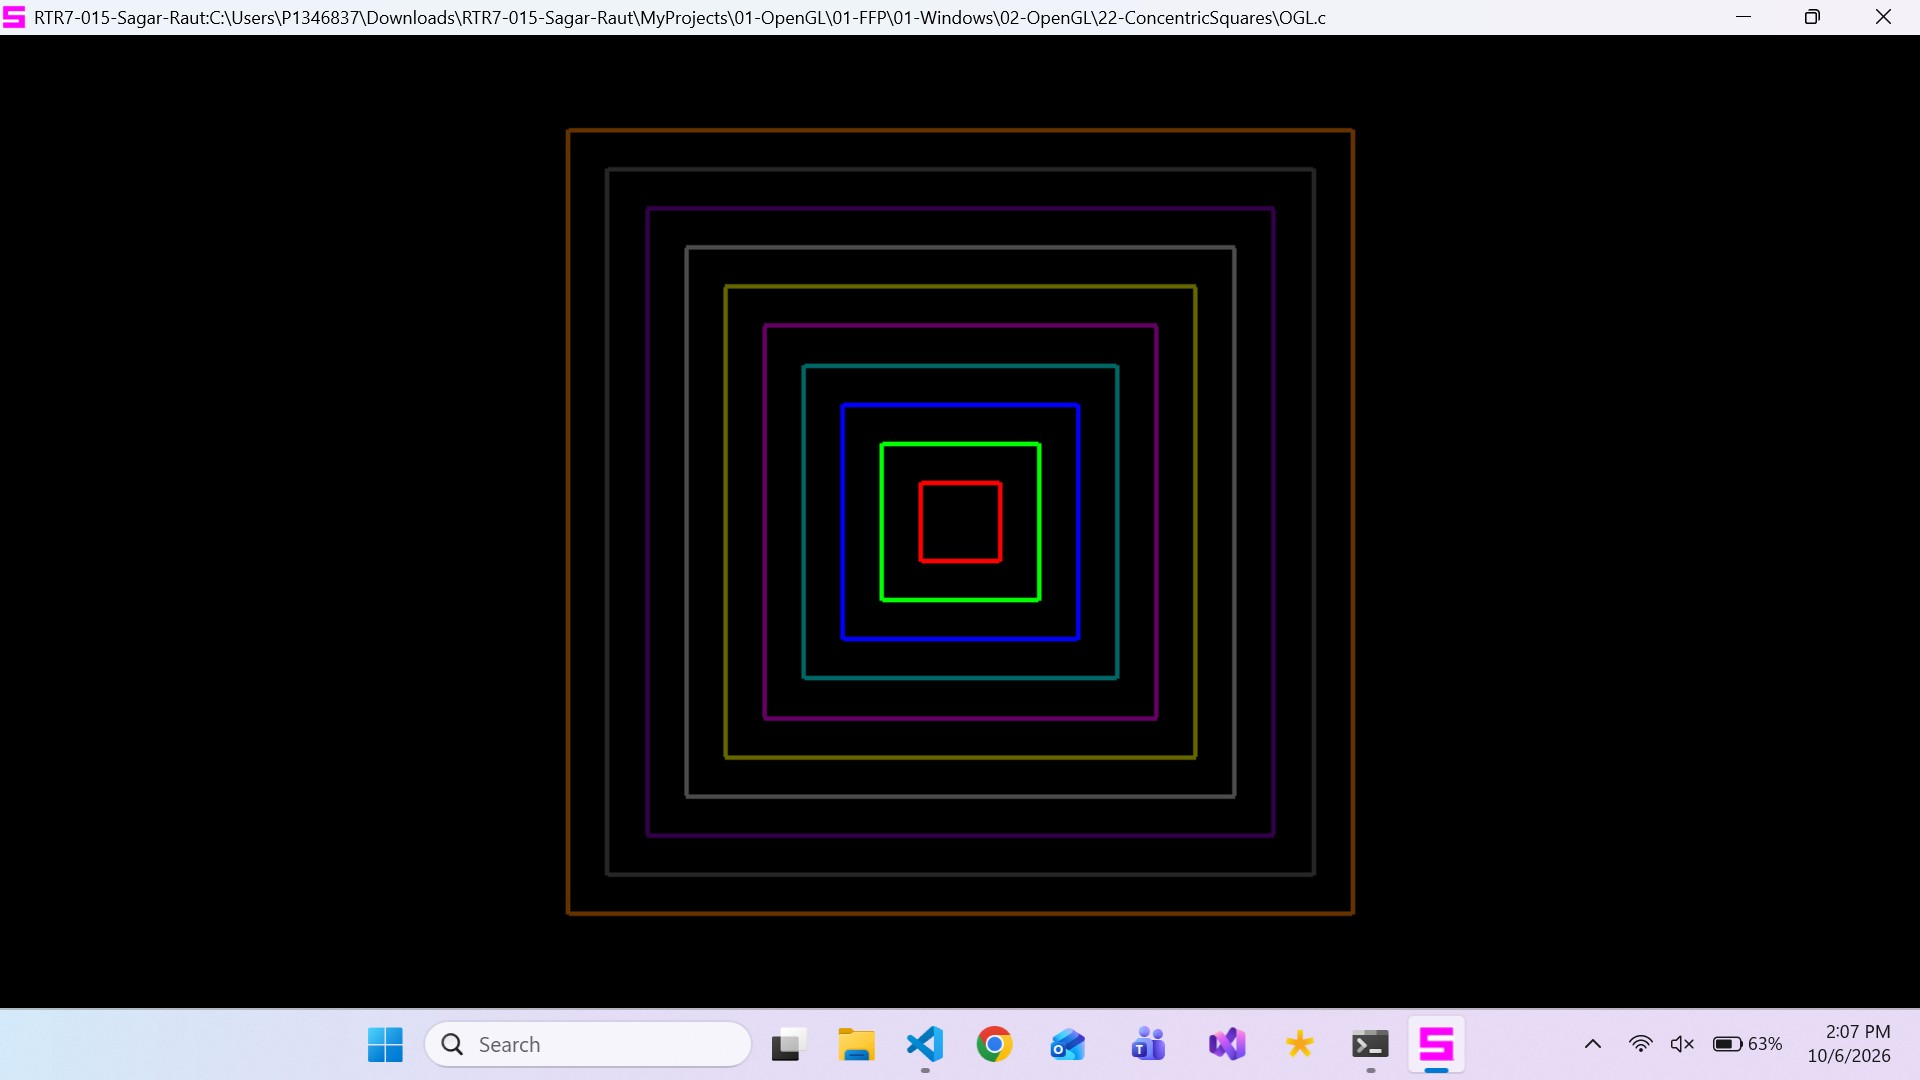
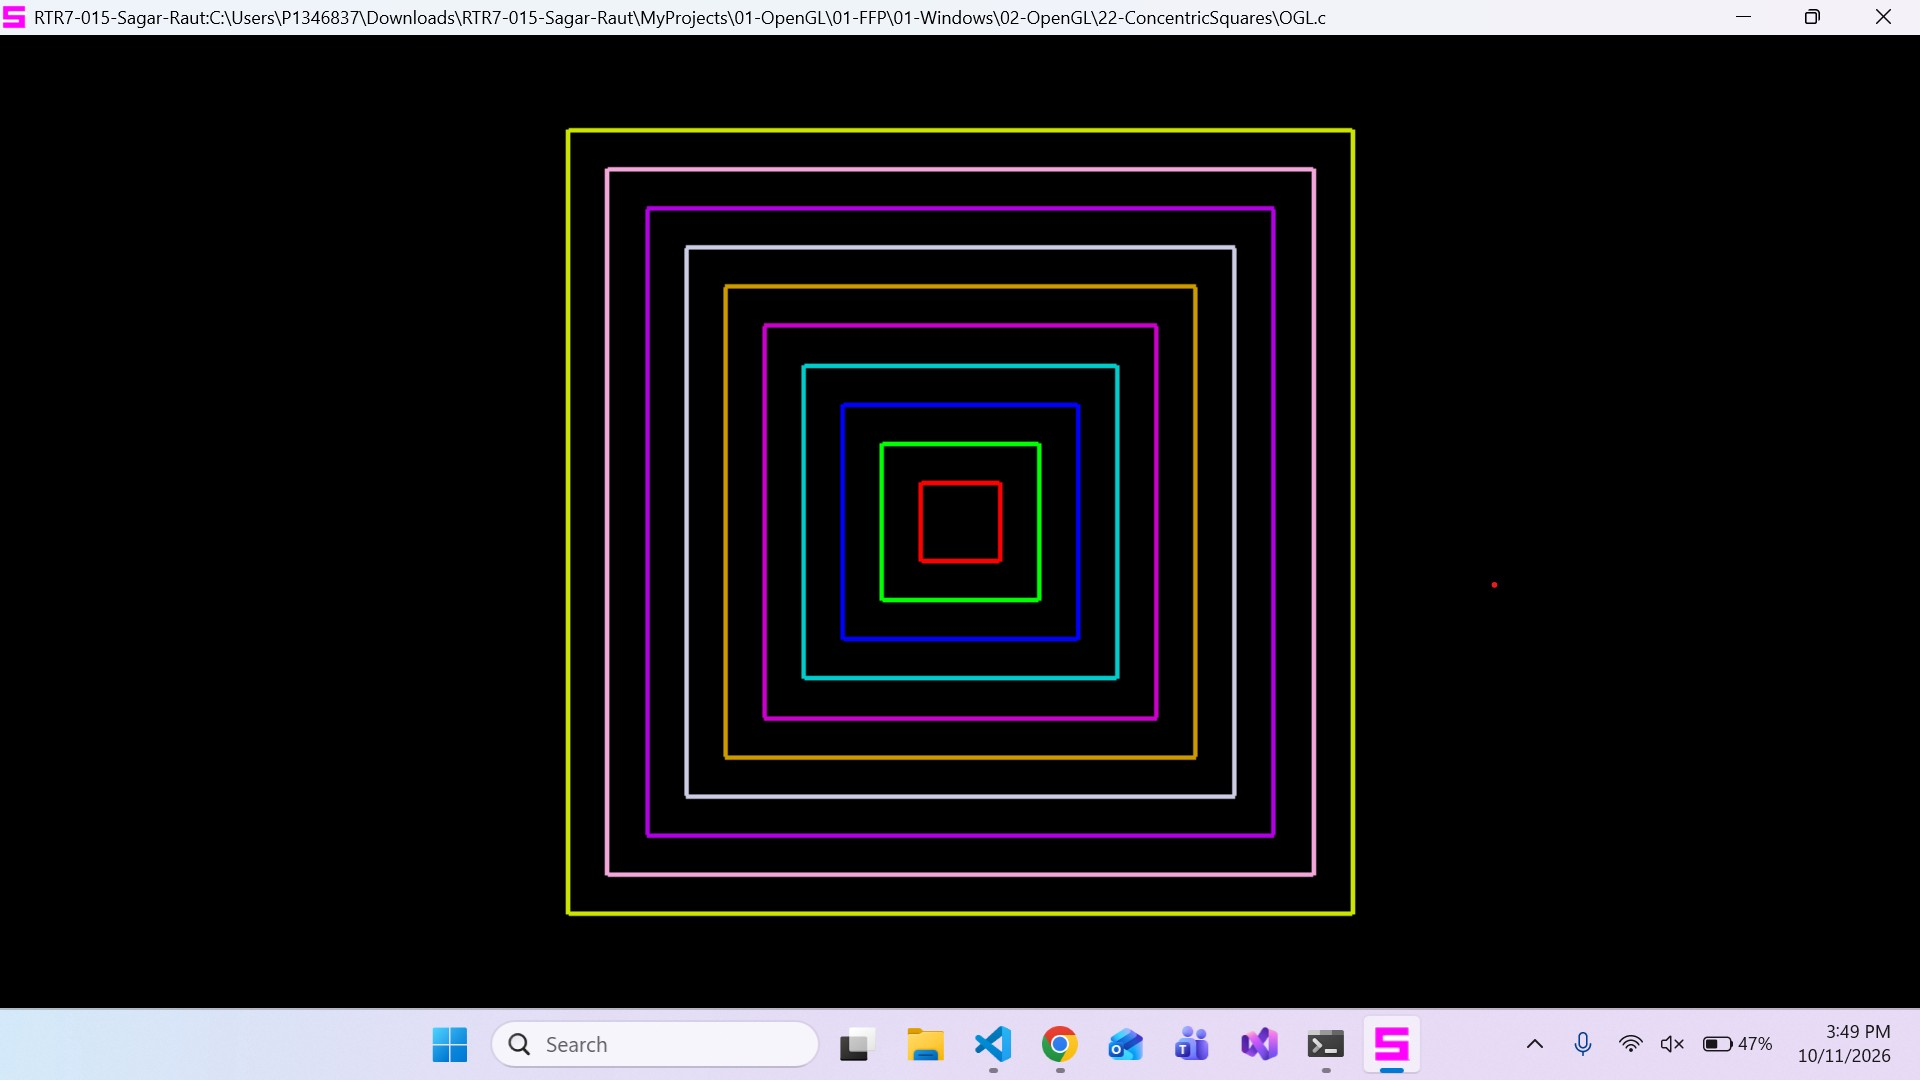
Concentric Squares code updated

diff --git a/MyProjects/01-OpenGL/01-FFP/01-Windows/02-OpenGL/22-ConcentricSquares/OGL.c b/MyProjects/01-OpenGL/01-FFP/01-Windows/02-OpenGL/22-ConcentricSquares/OGL.c
@@ -439,13 +439,14 @@ void render(void)
 	renderSquares(0.1f, 0.1f, 1.0f, 0.0f, 0.0f);
 	renderSquares(0.2f, 0.2f, 0.0f, 1.0f, 0.0f);
 	renderSquares(0.3f, 0.3f, 0.0f, 0.0f, 1.0f);
-	renderSquares(0.4f, 0.4f, 0.0f, 0.4f, 0.4f);
-	renderSquares(0.5f, 0.5f, 0.4f, 0.0f, 0.4f);
-	renderSquares(0.6f, 0.6f, 0.4f, 0.4f, 0.0f);
-	renderSquares(0.7f, 0.7f, 0.3f, 0.3f, 0.3f);
-	renderSquares(0.8f, 0.8f, 0.2f, 0.0f, 0.3f);
-	renderSquares(0.9f, 0.9f, 0.15f, 0.15f, 0.15f);
-	renderSquares(1.0f, 1.0f, 0.4f, 0.2f, 0.0f);
+
+	renderSquares(0.4f, 0.4f, 0.0f, 0.8f, 0.8f);
+	renderSquares(0.5f, 0.5f, 0.8f, 0.0f, 0.8f);
+	renderSquares(0.6f, 0.6f, 0.8f, 0.6f, 0.0f);
+	renderSquares(0.7f, 0.7f, 0.8f, 0.8f, 0.9f);
+	renderSquares(0.8f, 0.8f, 0.7f, 0.0f, 0.9f);
+	renderSquares(0.9f, 0.9f, 0.95f, 0.65f, 0.85f);
+	renderSquares(1.0f, 1.0f, 0.8f, 0.9f, 0.0f);
 
 	// glColor3f(0.0f, 0.4f, 0.4f);	// Dark Cyan (Dark Teal)
 	// glColor3f(0.4f, 0.0f, 0.4f);	// Dark Magenta (Dark Plum)
